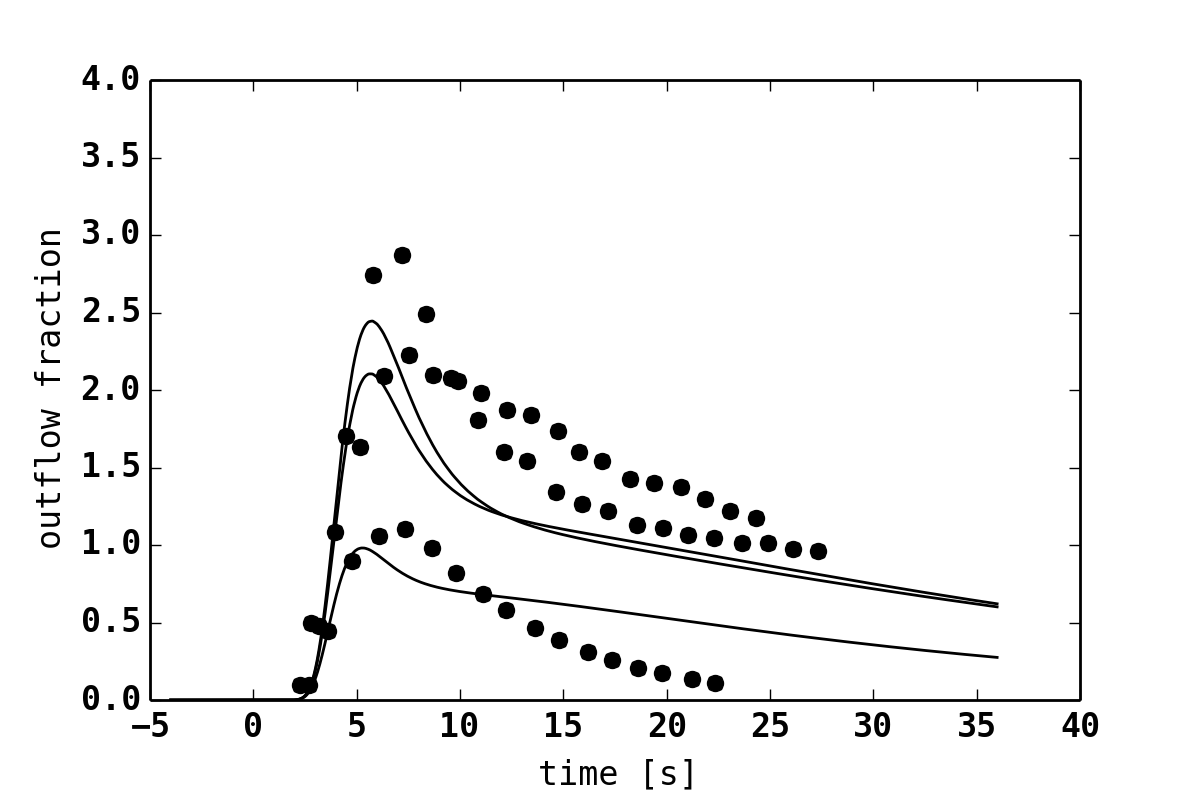
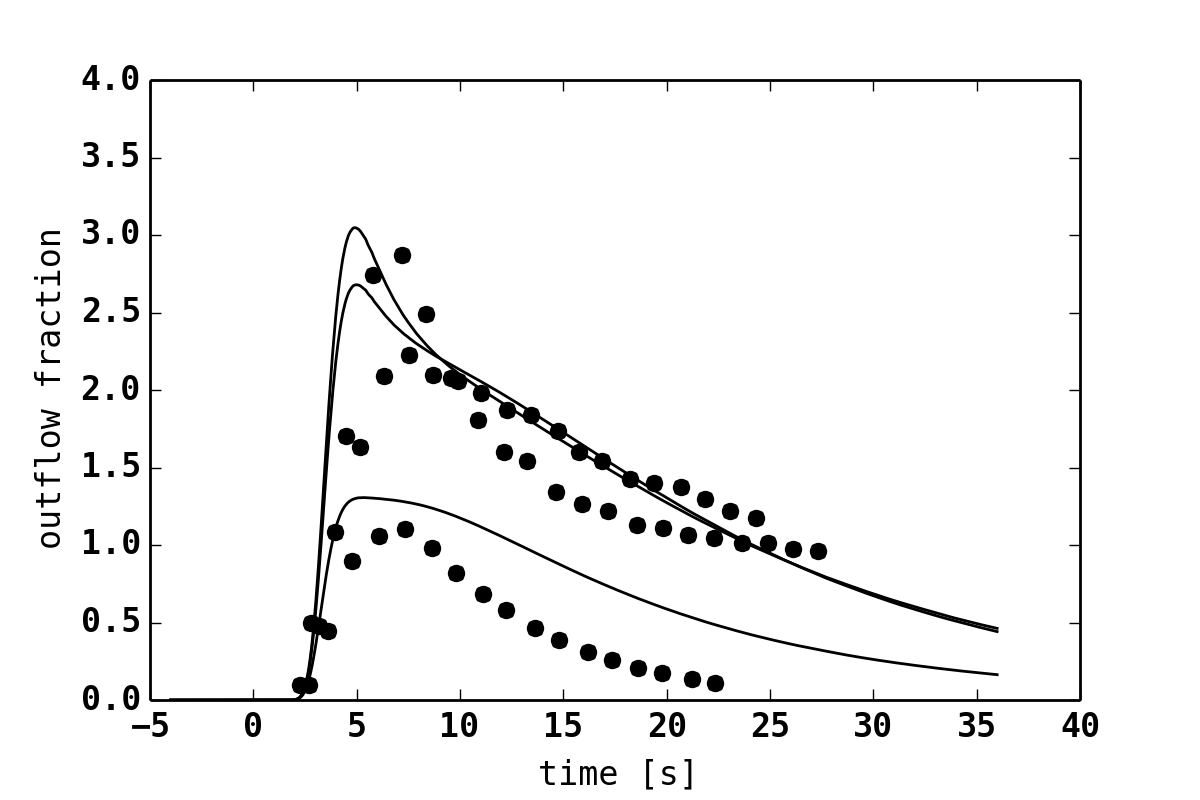
Working on dilution curves

diff --git a/python/simulator/simulator/roadrunner_tools/galactose_dilution_flux.py b/python/simulator/simulator/roadrunner_tools/galactose_dilution_flux.py
@@ -16,7 +16,6 @@ reload(rp)
 reload(gf)
 
 #########################################################################    
-
 VERSION = 93
 SBML_DIR = '/home/mkoenig/multiscale-galactose-results/tmp_sbml'
 T_PEAK = 5000
@@ -42,8 +41,8 @@ sel_dict = rt.set_selection(r, sel)
 # distribution of fluxes
 flux = gf.flux_sample()
 p_flux = gf.flux_probability(flux)
-flow_sin = 0.5 * 1E-6 * flux # [m/s] (scaling to calculate in correct volume flow range)
-
+f_fac = 0.45
+flow_sin = f_fac * flux * 1E-6 # [m/s] (scaling to calculate in correct volume flow range)
 
 #########################################################################    
 # Set parameters and integrate
@@ -51,7 +50,9 @@ flow_sin = 0.5 * 1E-6 * flux # [m/s] (scaling to calculate in correct volume flo
 # Define the parameters
 # The parameters are extended via the fluxes. I.e. for all fluxes in the
 # flux sample the simulation is performed.
- 
+
+
+
 gal_p_list = []
 # for gal in [0.28]:
 for gal in [0.28, 12.5, 17.5]:
@@ -60,25 +61,25 @@ for gal in [0.28, 12.5, 17.5]:
         d = { 
               "[PP__gal]" : gal, 
               "flow_sin" : f,    
-              "y_dis" : 2.4E-6,
+              "y_dis" : 2.0E-6,
+              "y_cell" : 6.19E-6,
               "f_cyto" : 0.5,
               "scale_f" : 0.425,
               # "GALK_PA" : 0.02,
               "H2OT_f": 8.0,
-              "GLUT2_f" : 14, 
+              "GLUT2_f" : 16, 
               }
         p_list.append(d)
     gal_p_list.append(p_list)
 
 gal_f_list = []
 for k, p_list in enumerate(gal_p_list):
-    f_list = [rt.simulation(r, parameters=p, inits=inits, absTol=1E-4, relTol=1E-4) for p in p_list]
+    f_list = [rt.simulation(r, parameters=p, inits=inits, absTol=1E-3, relTol=1E-3) for p in p_list]
     gal_f_list.append(f_list)
 
 # store the parameters
 with open("flux_plots/parameters.txt", 'wb') as f:
     print>>f, p_list
-
 
 #########################################################################    
 # Average
@@ -124,7 +125,6 @@ rp.average_plots(timepoints, av_mats, xlim=tlim, show=show_plots)
 rp.plot_data_with_sim(exp_data, timepoints, av_mats, scale=3.8*15.16943, time_shift=1.0)
 rp.plot_gal_data_with_sim(exp_data, timepoints, av_mats, scale=3.8*15.16943, time_shift=1.0)   
  
-
 
 # additional information
 # plot single timecourses

diff --git a/python/simulator/simulator/roadrunner_tools/galactose_dilution.py b/python/simulator/simulator/roadrunner_tools/galactose_dilution.py
@@ -58,24 +58,23 @@ r.selections = sel
 # set the boundary concentrations
 # PP__gal = (0.28, 5, 12.5, 17.5) # [mM]
 
-s_fac = 100
-
 p_list = [
    { "[PP__gal]" : 0.28, 
-    "flow_sin" : 0.5*270E-6, 
-    "y_dis" : 2.4E-6,
-    "f_cyto" : 0.5,
-    "scale_f" : 0.85/1.68/s_fac,
-    "GALK_PA" : 0.02*s_fac*2,
-    "H2OT_f": 8.0,
-    "GLUT2_f" : 6*s_fac,         
+    "flow_sin" : 0.45*270E-6, 
+              "y_dis" : 2.0E-6,
+              "y_cell" : 6.19E-6,
+              "f_cyto" : 0.5*1.2,
+              "scale_f" : 0.425/1.2,
+              # "GALK_PA" : 0.02,
+              "H2OT_f": 8.0,
+              "GLUT2_f" : 6,      
     },
 ]
 
 inits = {}
 
 # perform simulation
-s_list = [rt.simulation(r, p, inits, absTol=1E-4, relTol=1E-4) for p in p_list]
+s_list = [rt.simulation(r, p, inits, absTol=1E-6, relTol=1E-6) for p in p_list]
 
 #########################################################################    
 # Analyse peaks
@@ -96,6 +95,7 @@ for sid in ['[PV__{}]'.format(item) for item in compounds]:
 # Plots
 ######################################################################### 
 import roadrunner_plots as rp
+reload(dp)
 # mean curve
 dp.dilution_plot_pppv(s_list, r.selections)
 # dp.dilution_plot_pppv(s_list, r.selections, ylim=[0,0.005])
@@ -111,8 +111,15 @@ rp.plot_dilution_data(exp_data)
 # dp.dilution_plot_by_name(s_list, r.selections, name='alb', comp_type='S', xlim=[T_PEAK-10, T_PEAK+20])
 # dp.dilution_plot_by_name(s_list, r.selections, name='[D10__alb]', xlim=[T_PEAK-10, T_PEAK+20])
 
+dp.dilution_plot_by_name(s_list, r.selections, name='[PP__galM]')
+dp.dilution_plot_by_name(s_list, r.selections, name='[PV__galM]')
+dp.dilution_plot_by_name(s_list, r.selections, name='[PV__alb]')
+dp.dilution_plot_by_name(s_list, r.selections, name='[PV__rbcM]')
+
 dp.dilution_plot_by_name(s_list, r.selections, name='gal')
 dp.dilution_plot_by_name(s_list, r.selections, name='galM')
+dp.dilution_plot_by_name(s_list, r.selections, name='galM', comp_type='D')
+
 dp.dilution_plot_by_name(s_list, r.selections, name='gal1pM')
 dp.dilution_plot_by_name(s_list, r.selections, name='udpgalM')
 dp.dilution_plot_by_name(s_list, r.selections, name='udpglcM')

diff --git a/python/simulator/simulator/roadrunner_tools/galactose_challenge.py b/python/simulator/simulator/roadrunner_tools/galactose_challenge.py
@@ -19,7 +19,6 @@ import dilution_plots as dp
 VERSION = 93
 NC = 20
 SBML_DIR = '/home/mkoenig/multiscale-galactose-results/tmp_sbml'
-T_PEAK = 5000
 
 sbml_file = SBML_DIR + '/' + 'Galactose_v{}_Nc20_galchallenge.xml'.format(VERSION)
 r = rt.load_model(sbml_file)
@@ -33,7 +32,6 @@ sel += ['[{}]'.format(item) for item in r.model.getBoundarySpeciesIds()]
 sel += ['[PV__{}]'.format(item) for item in compounds]
 sel += ['[PP__{}]'.format(item) for item in compounds]
 sel += ['[{}]'.format(item)for item in r.model.getFloatingSpeciesIds() if item.startswith('H')]
-sel += ['[{}]'.format(item)for item in r.model.getFloatingSpeciesIds() if item.startswith('S')]
 sel += ['[{}]'.format(item)for item in r.model.getFloatingSpeciesIds() if item.startswith('D')]
 sel += [item for item in r.model.getReactionIds() if item.startswith('H')]
 sel += [item for item in r.model.getReactionIds() if item.startswith('D')]
@@ -54,10 +52,10 @@ for f in flow_sin:
               "flow_sin" : f,
               "y_dis" : 2.4E-6,
               "f_cyto" : 0.5,
-              "scale_f" : 0.85*0.5 /4,
-              "GALK_PA" : 0.02*4,
+              "scale_f" : 0.425,
+              # "GALK_PA" : 0.02,
               "H2OT_f": 8.0,
-              "GLUT2_f" : 12*4,
+              "GLUT2_f" : 14, 
              }
     p_list.append(d)
 
@@ -133,6 +131,6 @@ p.xlabel('P [ml/min/ml(liv)]')
 p.ylabel('GEC liver [mmole/min]')
 p.title('GEC liver vs. Perfusion')
 p.show()
-print 'Perfusion', f_vol*Q, '[ml/min/ml(liv)]'
-print 'GEC liver',  GEC*vol_liv, '[mmole/min]'
+# print 'Perfusion', f_vol*Q, '[ml/min/ml(liv)]'
+# print 'GEC liver',  GEC*vol_liv, '[mmole/min]'
 

diff --git a/python/simulator/simulator/roadrunner_tools/dilution_plots.py b/python/simulator/simulator/roadrunner_tools/dilution_plots.py
@@ -28,7 +28,7 @@ def dilution_plot_pppv(s_list, selections, show=True,
     print ids
     
     import pylab as p
-    p.figure(1, figsize=(9,6))
+    # p.figure(1, figsize=(9,6))
     for s in s_list:
         times = s['time']
         for k, sid in enumerate(ids):
@@ -66,7 +66,7 @@ def dilution_plot_by_name(s_list, selections, name, xlim=[t_peak-5, t_peak+30], 
     print ids
   
     import pylab as p
-    p.figure(1, figsize=(9,6))
+    # p.figure(1, figsize=(9,6))
     for ks, s in enumerate(s_list):
         times = s['time']
         for sid in ids:

diff --git a/python/simulator/simulator/roadrunner_tools/galactose_functions.py b/python/simulator/simulator/roadrunner_tools/galactose_functions.py
@@ -15,7 +15,7 @@ def flux_sample():
     # definition of fluxes
     
     # flux = np.arange(start=10, stop=1220, step=50)
-    flux = np.arange(start=10, stop=650, step=50)    
+    flux = np.arange(start=10, stop=750, step=50)    
     
     flux = np.sort(flux)
     return flux
